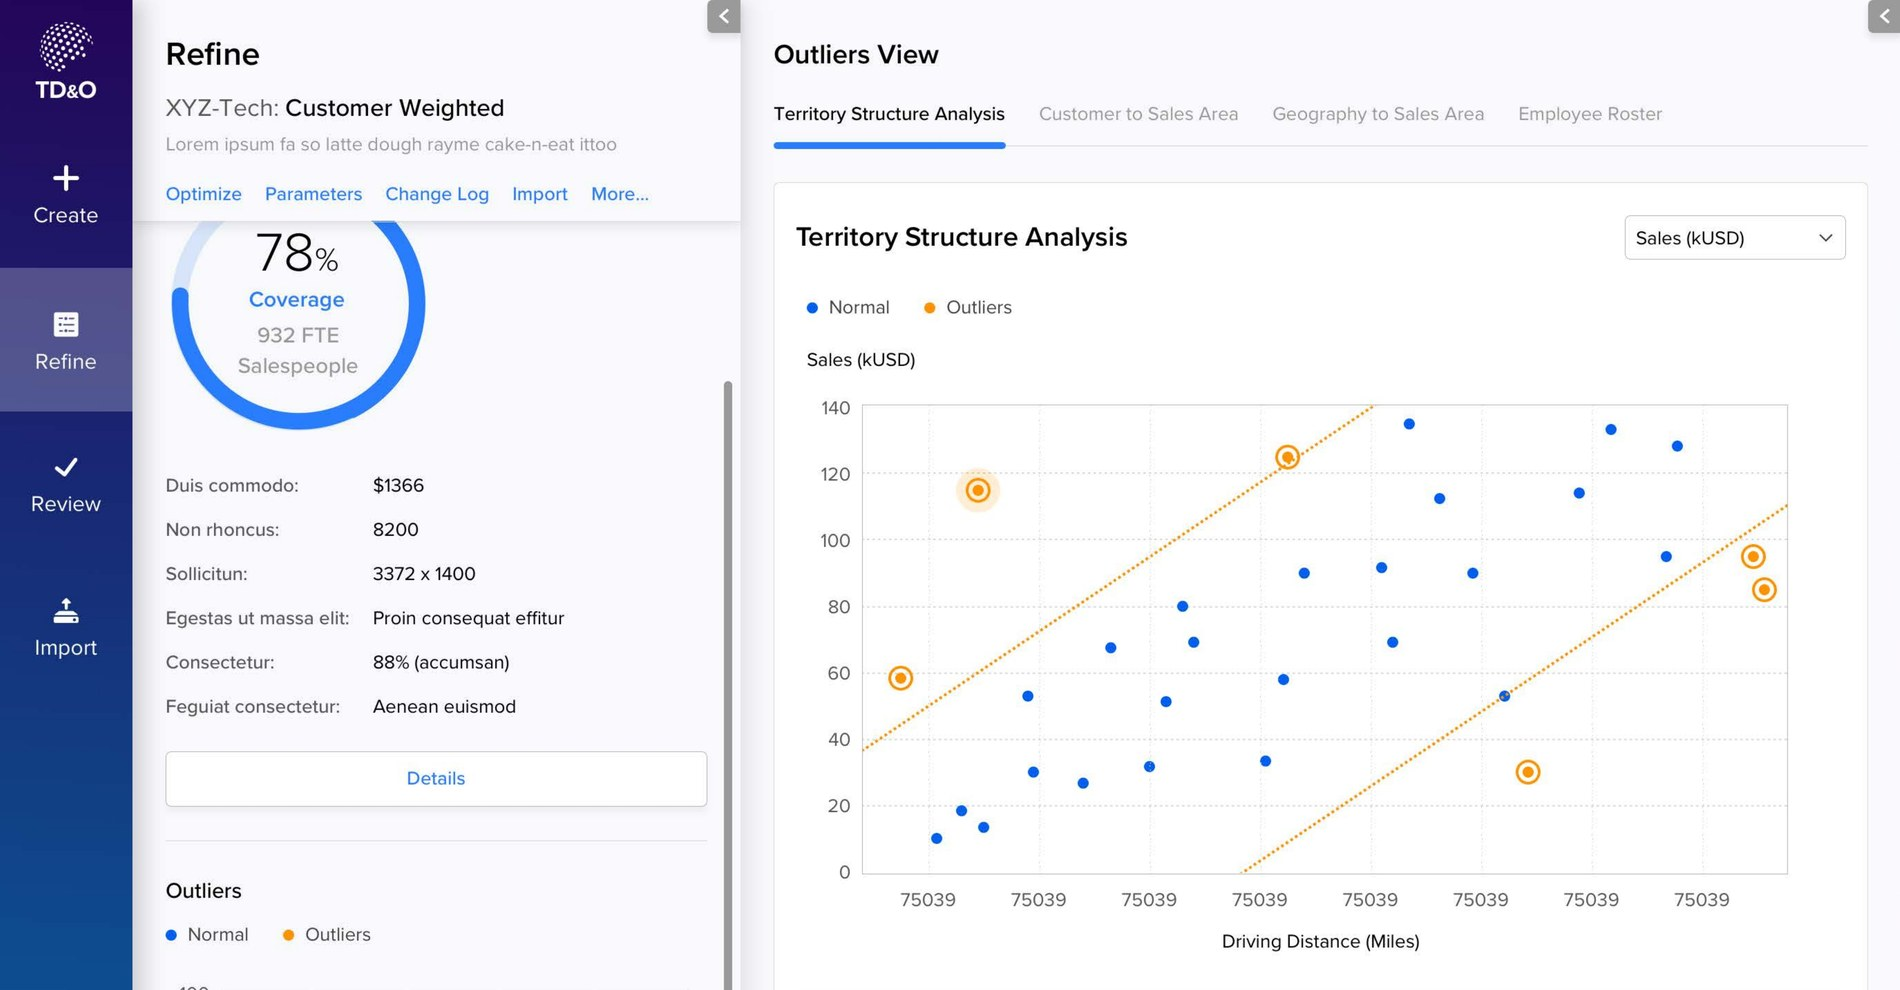
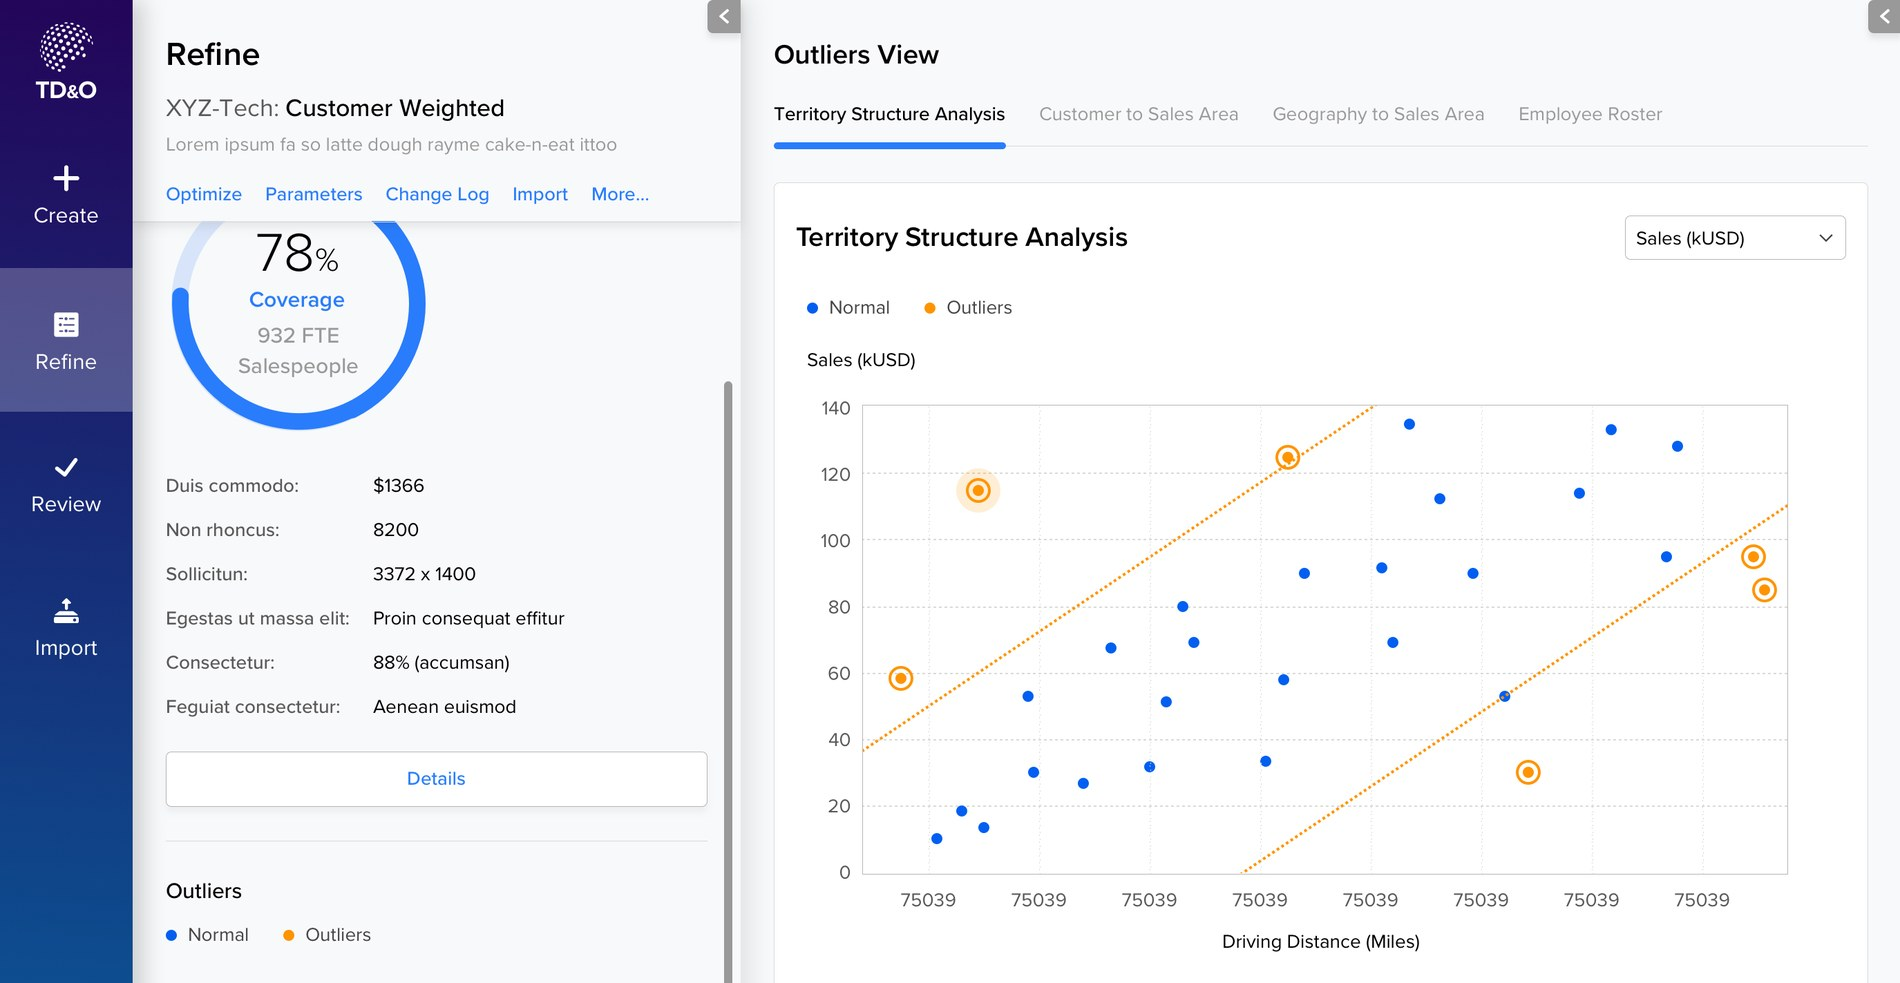
Add the review and login screens to the Territory Designer case study
New Decision 05 on putting sign-off inside the tool, built around the
Review screen. The login screen goes into the Apollo section as the
plainest example of the system applied. Outliers figure swapped for a
higher-resolution crop.

Claude-Session: https://claude.ai/code/session_01B5NtsKG6VN3ppcQ34r7gCM

diff --git a/td.html b/td.html
@@ -366,7 +366,7 @@
           </div>
 
           <figure class="fig">
-            <div class="plate"><img src="img/td/td-outliers.jpg" alt="The outliers analysis view: a scatter plot of sales in thousands of dollars against driving distance in miles, with normal territories in blue, outliers ringed in orange, and dotted boundary lines marking the acceptable band. Tabs above offer territory structure analysis, customer to sales area, geography to sales area and employee roster." width="1900" height="990" loading="lazy" decoding="async"></div>
+            <div class="plate"><img src="img/td/td-outliers.jpg" alt="The outliers analysis view: a scatter plot of sales in thousands of dollars against driving distance in miles, with normal territories in blue, outliers ringed in orange, and dotted boundary lines marking the acceptable band. Tabs above offer territory structure analysis, customer to sales area, geography to sales area and employee roster." width="1900" height="983" loading="lazy" decoding="async"></div>
             <figcaption class="figcap">Sales against driving distance, with the acceptable band drawn on. Anything sitting outside it is a territory somebody will be asked about.</figcaption>
           </figure>
         </div>
@@ -380,6 +380,22 @@
             <p>Every client turns up with their own spreadsheet, their own column names, and none of it matches the schema. In most enterprise software that's a support ticket. Here it's a screen: their file on the left, our schema on the right, drag to match them up, then save the mapping so the next upload from that client is one click.</p>
             <p>Nobody puts that screen in a pitch deck. It's also the difference between software a consultant can hand over and software they end up running for the client forever.</p>
           </div>
+        </div>
+      </div>
+
+      <div class="dec" data-rise>
+        <div class="sec-head"><span class="sec-n">Decision 05</span></div>
+        <div>
+          <h3>Put the sign-off inside the tool</h3>
+          <div class="col">
+            <p>A plan goes nowhere until a regional lead approves it, and on most projects that approval happened over email with a deck attached. So Review is one of the four things the app does. The lead opens the scenario itself, sees the same coverage number and the same outliers the strategist was looking at, and approves or rejects it there.</p>
+            <p>They can also duplicate it. When a lead disagrees with a version, what actually moves things along is their own version rather than a paragraph describing what they would change, so that button sits right next to the numbers.</p>
+          </div>
+
+          <figure class="fig">
+            <div class="plate"><img src="img/td/td-review.jpg" alt="The review screen: a left panel headed Review showing an optimized scenario for XYZ-Tech, a dial reading 78 percent coverage and 932 full-time salespeople, a details list, a duplicate button, an outliers scatter plot, and Reject and Approve buttons pinned to the bottom, next to a map of the United States with the whole country outlined and shaded blue." width="1700" height="1209" loading="lazy" decoding="async"></div>
+            <figcaption class="figcap">The version a lead is asked to sign off on, with the same numbers the person who built it was working from, and Reject and Approve at the bottom of the panel.</figcaption>
+          </figure>
         </div>
       </div>
     </div>
@@ -398,6 +414,11 @@
           <figure class="fig">
             <div class="plate"><img src="img/td/td-apollo.jpg" alt="The Apollo UI kit: a color library, type scale, alert bars, buttons, chips, form controls, a date picker, tabs and menus, alongside chart cards showing bar, line and donut examples and an application shell with a navigation bar and notification panel." width="1900" height="1248" loading="lazy" decoding="async"></div>
             <figcaption class="figcap">The Apollo kit the product had to live inside. Going through it properly was step two, before I drew a single Territory Designer screen.</figcaption>
+          </figure>
+
+          <figure class="fig">
+            <div class="plate"><img src="img/td/td-login.jpg" alt="The Territory Design and Optimization login screen: a deep blue panel on the left carrying a faint map of the Americas, and on the right the product lockup, username and password fields, a remember my username checkbox, a blue log in button and a forgot password link." width="1700" height="1209" loading="lazy" decoding="async"></div>
+            <figcaption class="figcap">The login screen is almost entirely Apollo, down to the field styling and the button. The map artwork is the one thing I added, so the first screen anyone sees already says what the product is for.</figcaption>
           </figure>
         </div>
       </div>
